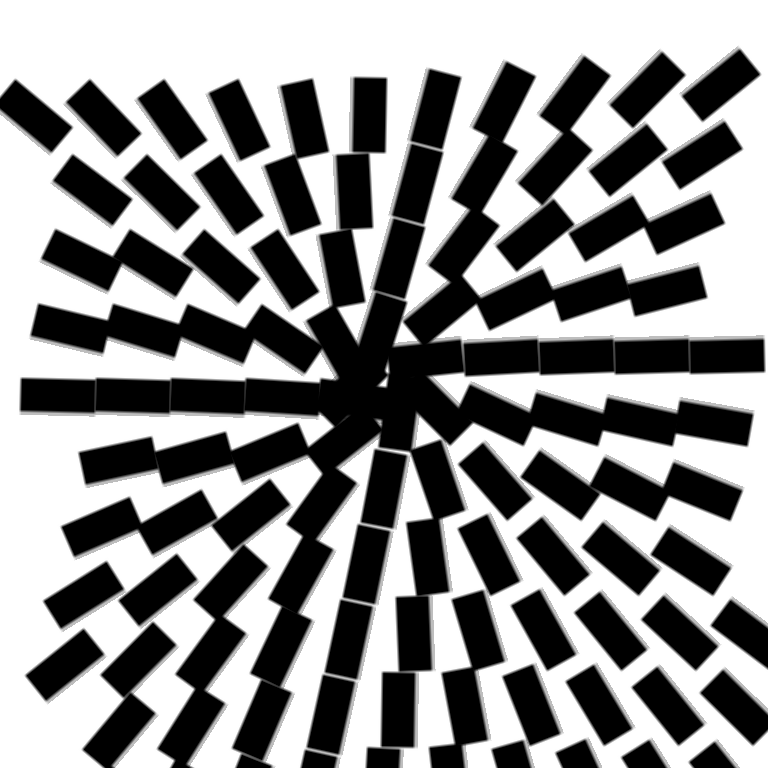
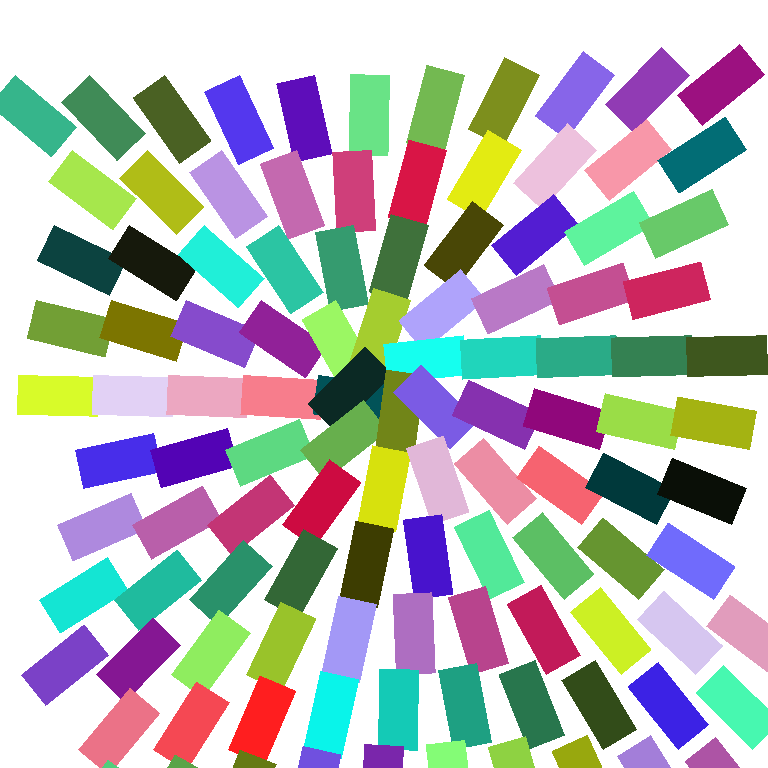
fix test suite

diff --git a/package/src/renderer/__tests__/e2e/Atlas.spec.tsx b/package/src/renderer/__tests__/e2e/Atlas.spec.tsx
@@ -44,7 +44,9 @@ describe("Atlas", () => {
         transforms={[Skia.RSXform(0.5, 0, 0, 0), Skia.RSXform(0, 0.5, 50, 50)]}
       />
     );
-    checkImage(img, "snapshots/atlas/simple2.png");
+    checkImage(img, "snapshots/atlas/simple2.png", {
+      maxPixelDiff: 500,
+    });
   });
   it("Simple Atlas identity", async () => {
     const { Skia } = importSkia();
@@ -104,7 +106,9 @@ describe("Atlas", () => {
     const img = await surface.draw(
       <Atlas image={texture} sprites={sprites} transforms={transforms} />
     );
-    checkImage(img, docPath("atlas/hello-world.png"));
+    checkImage(img, docPath("atlas/hello-world.png"), {
+      maxPixelDiff: 500,
+    });
   });
   it("should use the colors property properly", async () => {
     const { Skia, rect, drawAsImage } = importSkia();
@@ -174,7 +178,9 @@ describe("Atlas", () => {
         colors={colors}
       />
     );
-    checkImage(img, docPath("atlas/colors.png"));
+    checkImage(img, docPath("atlas/colors.png"), {
+      maxPixelDiff: 500,
+    });
   });
   it("should use the colors and blend mode property properly", async () => {
     const { Skia, rect, drawAsImage } = importSkia();
@@ -217,6 +223,8 @@ describe("Atlas", () => {
         blendMode="screen"
       />
     );
-    checkImage(img, docPath("atlas/colors-and-blend-mode.png"));
+    checkImage(img, docPath("atlas/colors-and-blend-mode.png"), {
+      maxPixelDiff: 500,
+    });
   });
 });

diff --git a/package/src/skia/web/JsiSkCanvas.ts b/package/src/skia/web/JsiSkCanvas.ts
@@ -405,7 +405,7 @@ export class JsiSkCanvas
       cls = new Uint32Array(colors.length);
       for (let i = 0; i < colors.length; i++) {
         const [r, g, b, a] = colors[i];
-        cls[i] = this.CanvasKit.ColorAsInt(r, g, b, a);
+        cls[i] = this.CanvasKit.ColorAsInt(r * 255, g * 255, b * 255, a * 255);
       }
     }
     this.ref.drawAtlas(

diff --git a/example/src/Tests/Tests.tsx b/example/src/Tests/Tests.tsx
@@ -58,7 +58,6 @@ export const Tests = ({ assets }: TestsProps) => {
           setScreen(React.createElement(Screen));
         } else {
           const node = parseNode(tree, assets);
-          console.log({ node });
           setDrawing(node as SerializedNode);
         }
       };

diff --git a/package/cpp/rnskia/dom/nodes/JsiAtlasNode.h b/package/cpp/rnskia/dom/nodes/JsiAtlasNode.h
@@ -25,8 +25,8 @@ protected:
                                                : nullptr;
 	  const auto blendMode = _blendModeProp->isSet() ? *_blendModeProp->getDerivedValue() : SkBlendMode::kDstOver;
 	  auto paint = *context->getPaint();
-      SkSamplingOptions sampling;
-      context->getCanvas()->drawAtlas(
+    SkSamplingOptions sampling(SkFilterMode::kLinear, SkMipmapMode::kNone);
+    context->getCanvas()->drawAtlas(
           image.get(), transforms->data(), sprites->data(), colors == nullptr ? nullptr: colors->data(),
           sprites->size(), blendMode, sampling, nullptr, &paint);
     }
